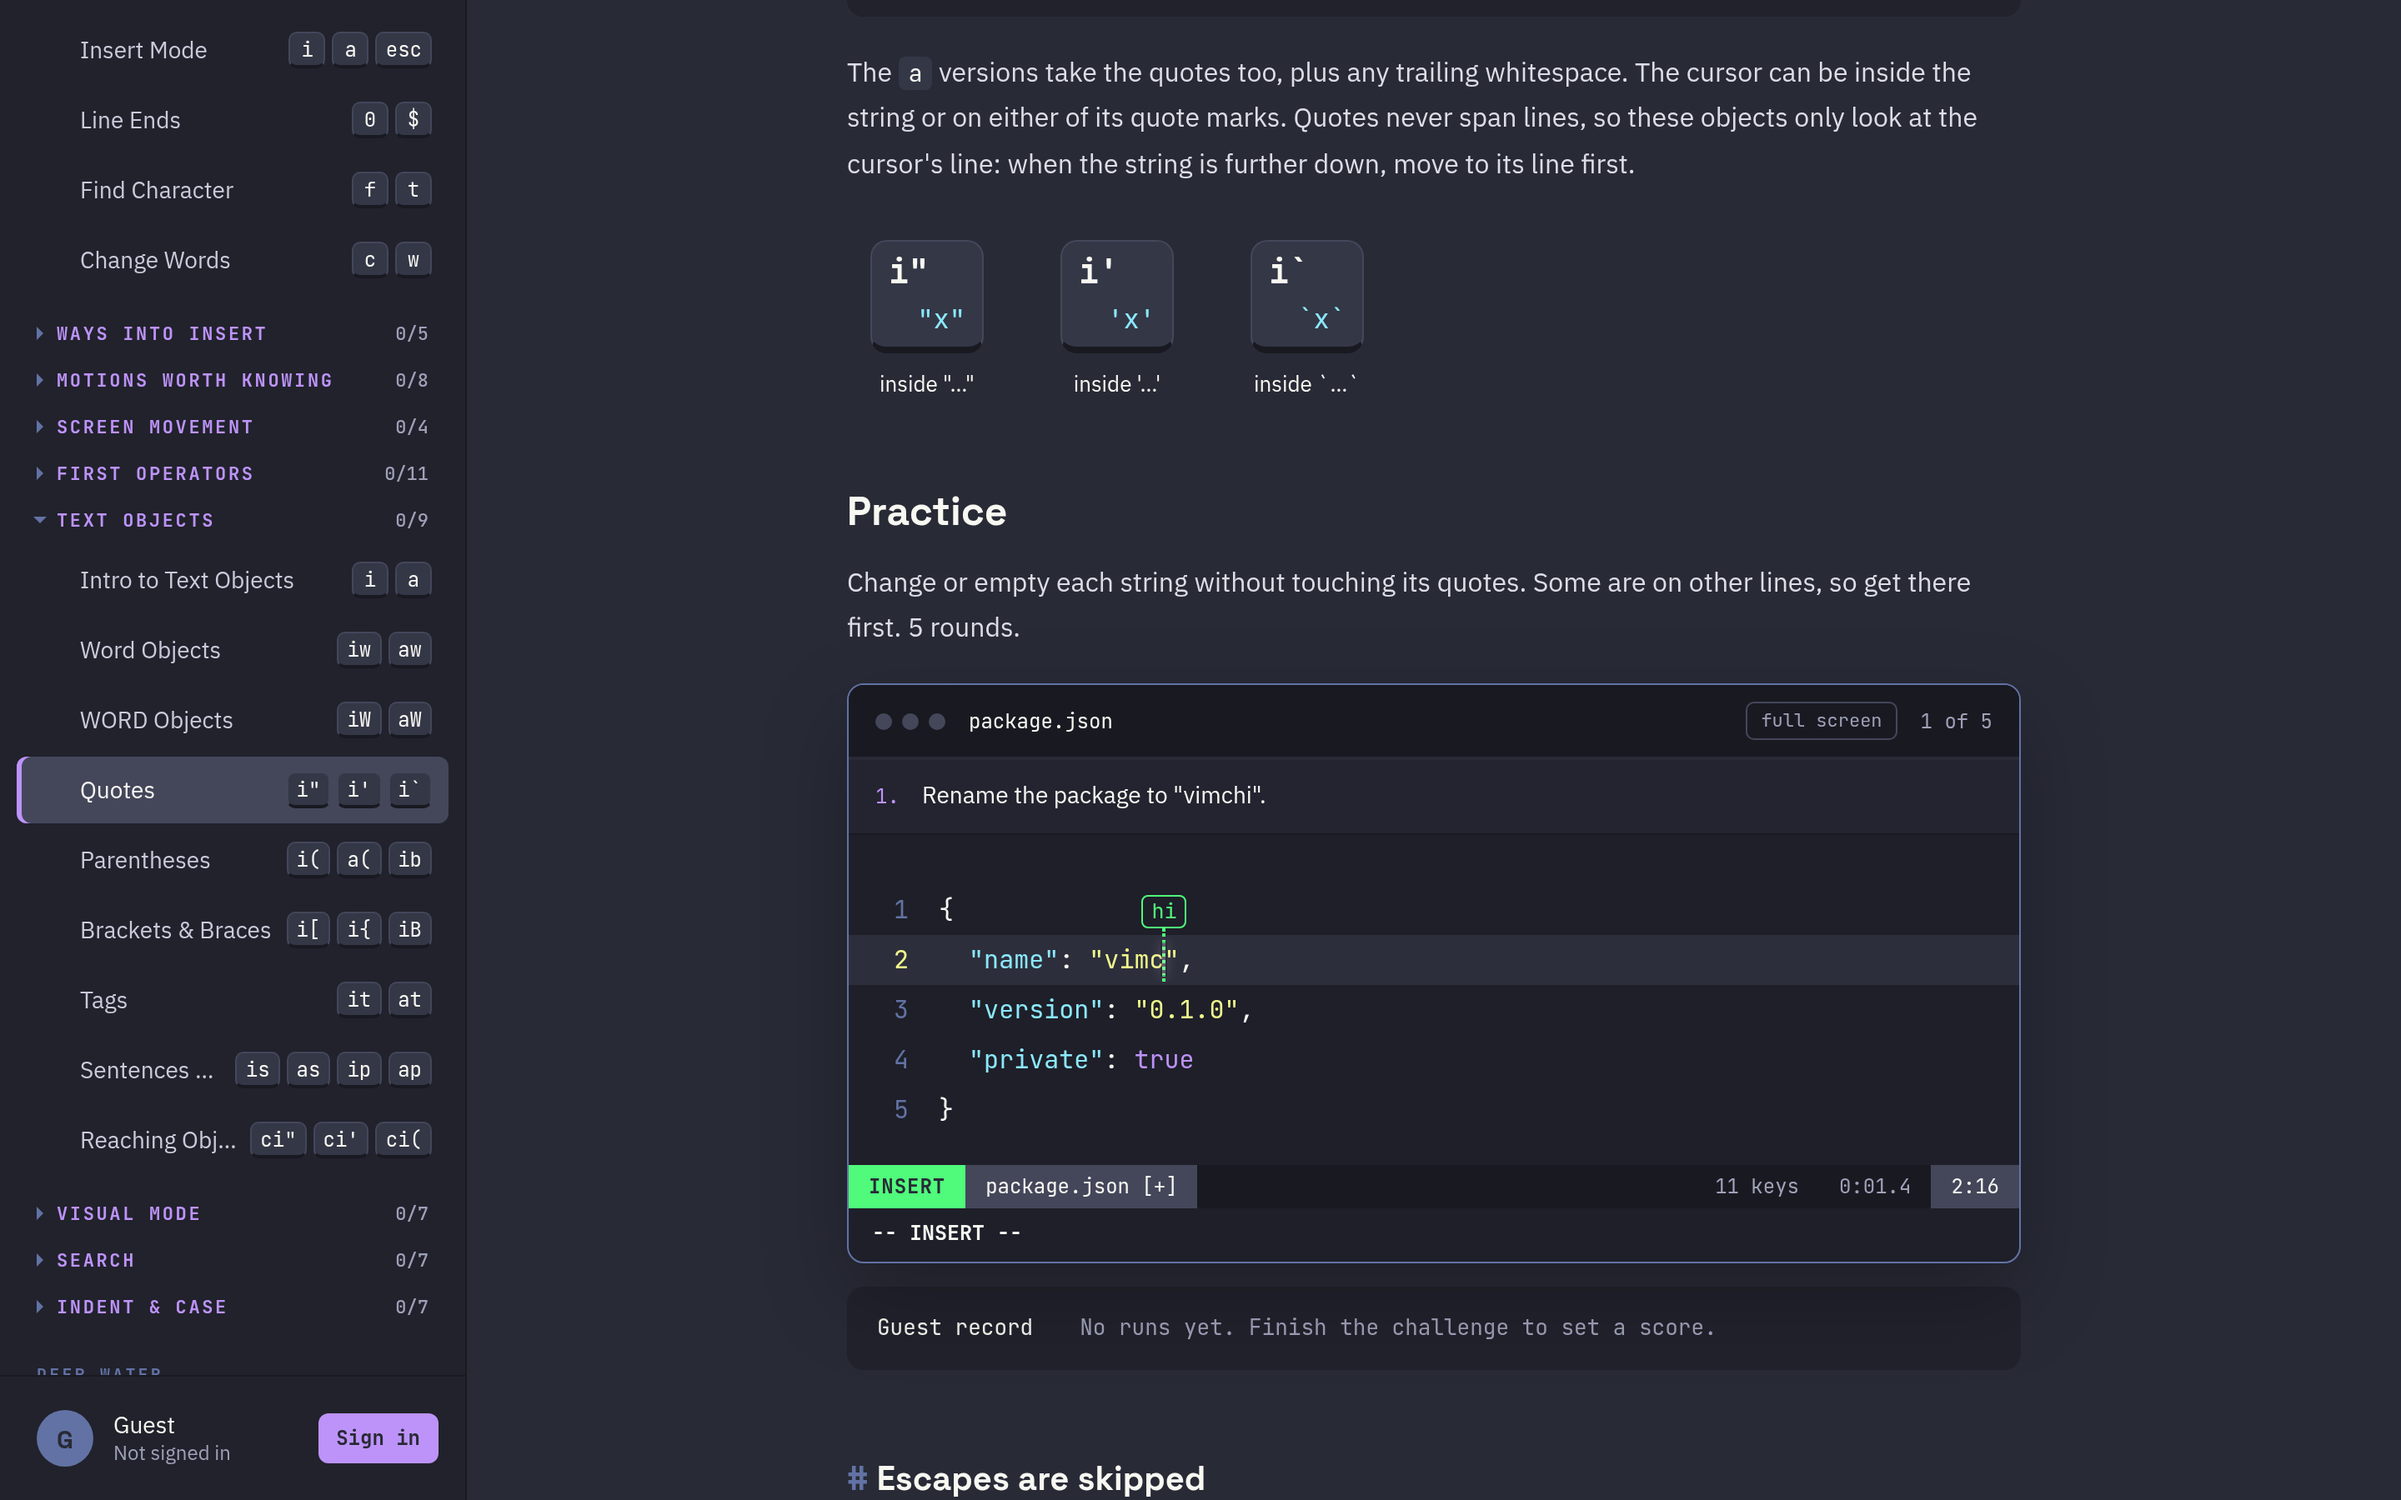
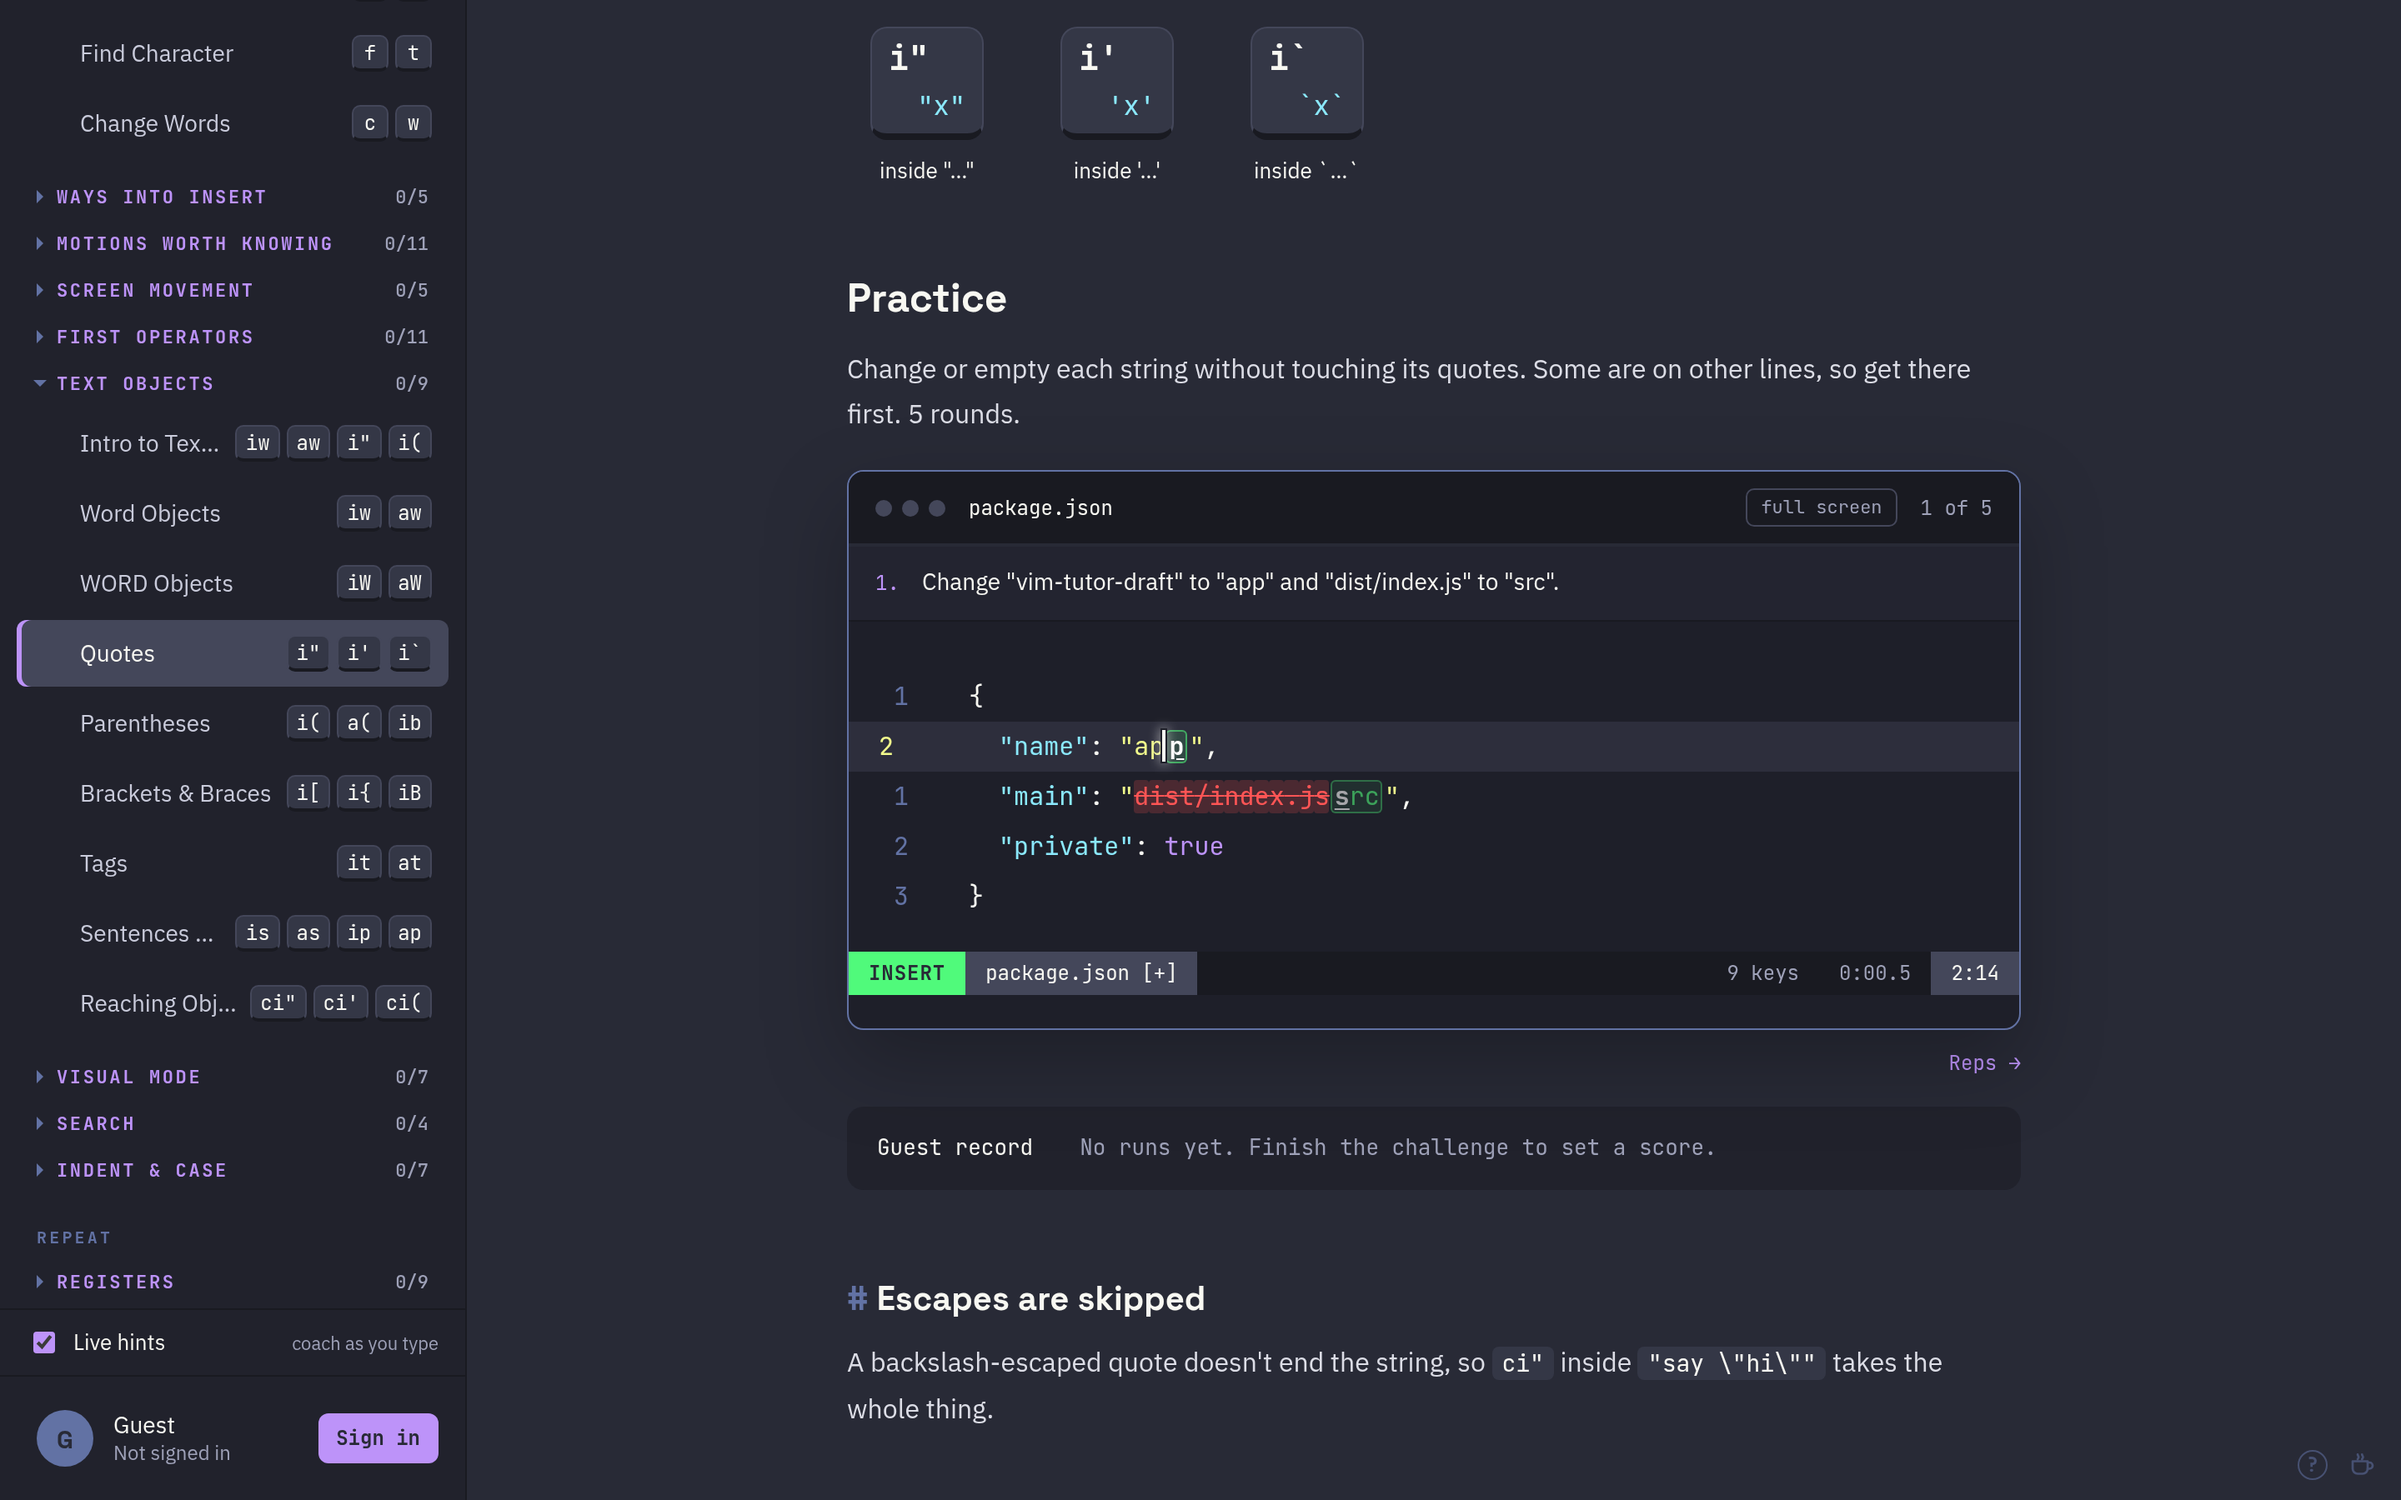
README: retake the screenshot (relative numbers, current round 1)

diff --git a/README.md b/README.md
@@ -6,7 +6,7 @@ A browser Vim tutor: 193 short lessons, each one a real edit, from `hjkl` to mac
 
 **Play it at [vimchi.dev](https://vimchi.dev).**
 
-![The Quotes lesson: the sidebar lists the Text Objects section, and the practice editor is mid-`ci"`, in Insert mode renaming a package.json string to "vimchi" with the remaining text hinted above the cursor](docs/screenshot.png)
+![The Quotes lesson: the sidebar lists the Text Objects section, and the practice editor is mid-`ci"`, in Insert mode renaming a package.json string to "app", with the next string marked for its change to "src"](docs/screenshot.png)
 
 No install. Progress stays in the browser. Sign in with GitHub when you want runs to follow you to another machine.
 
